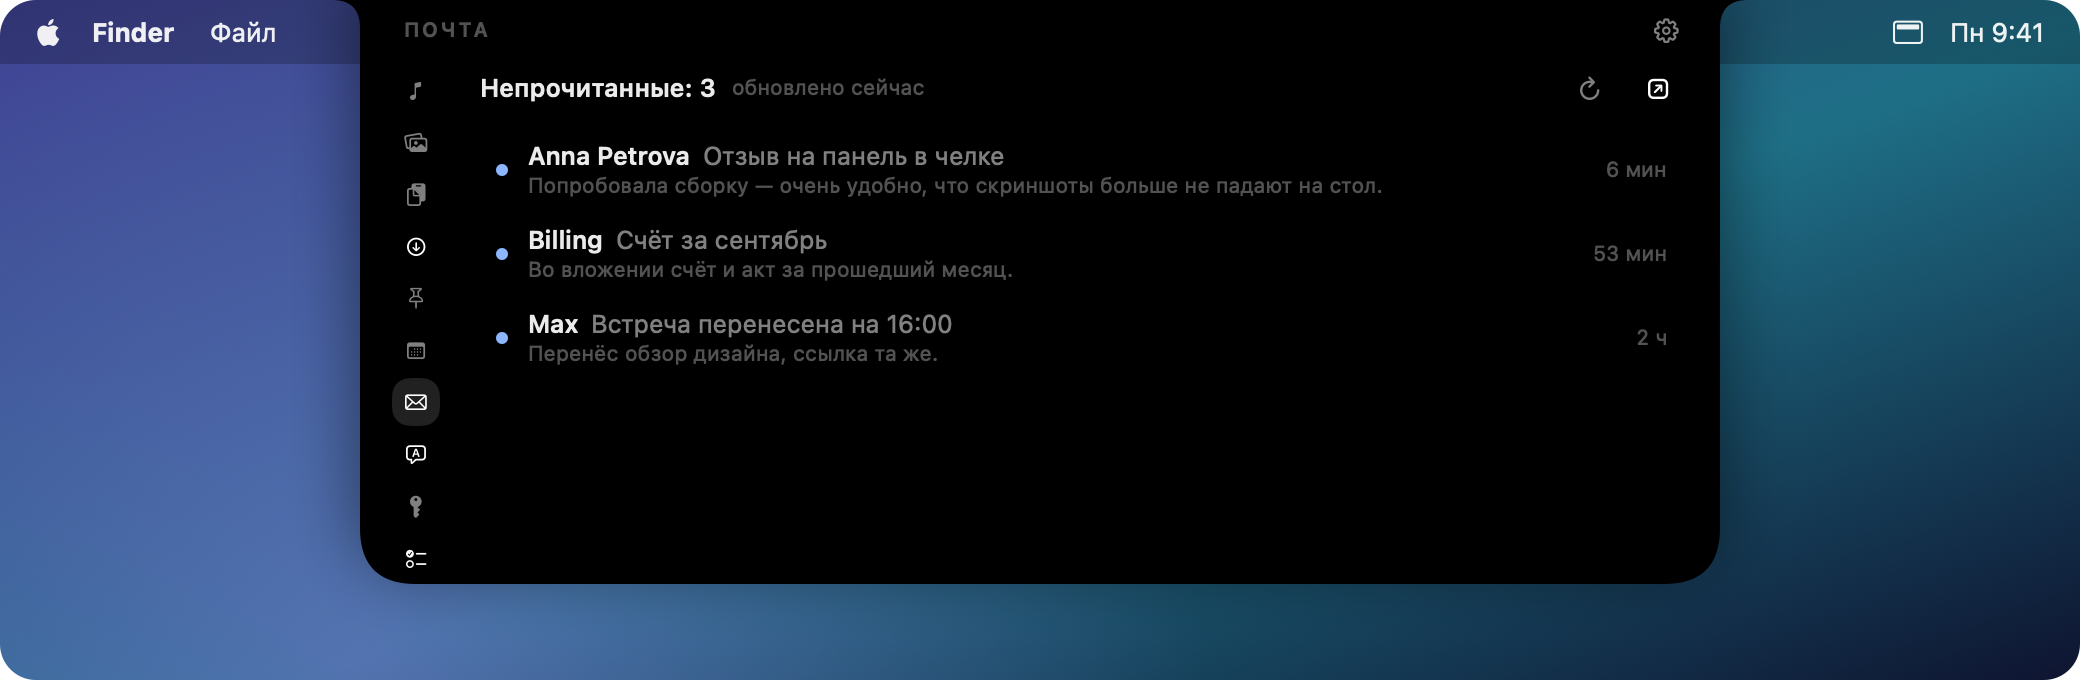
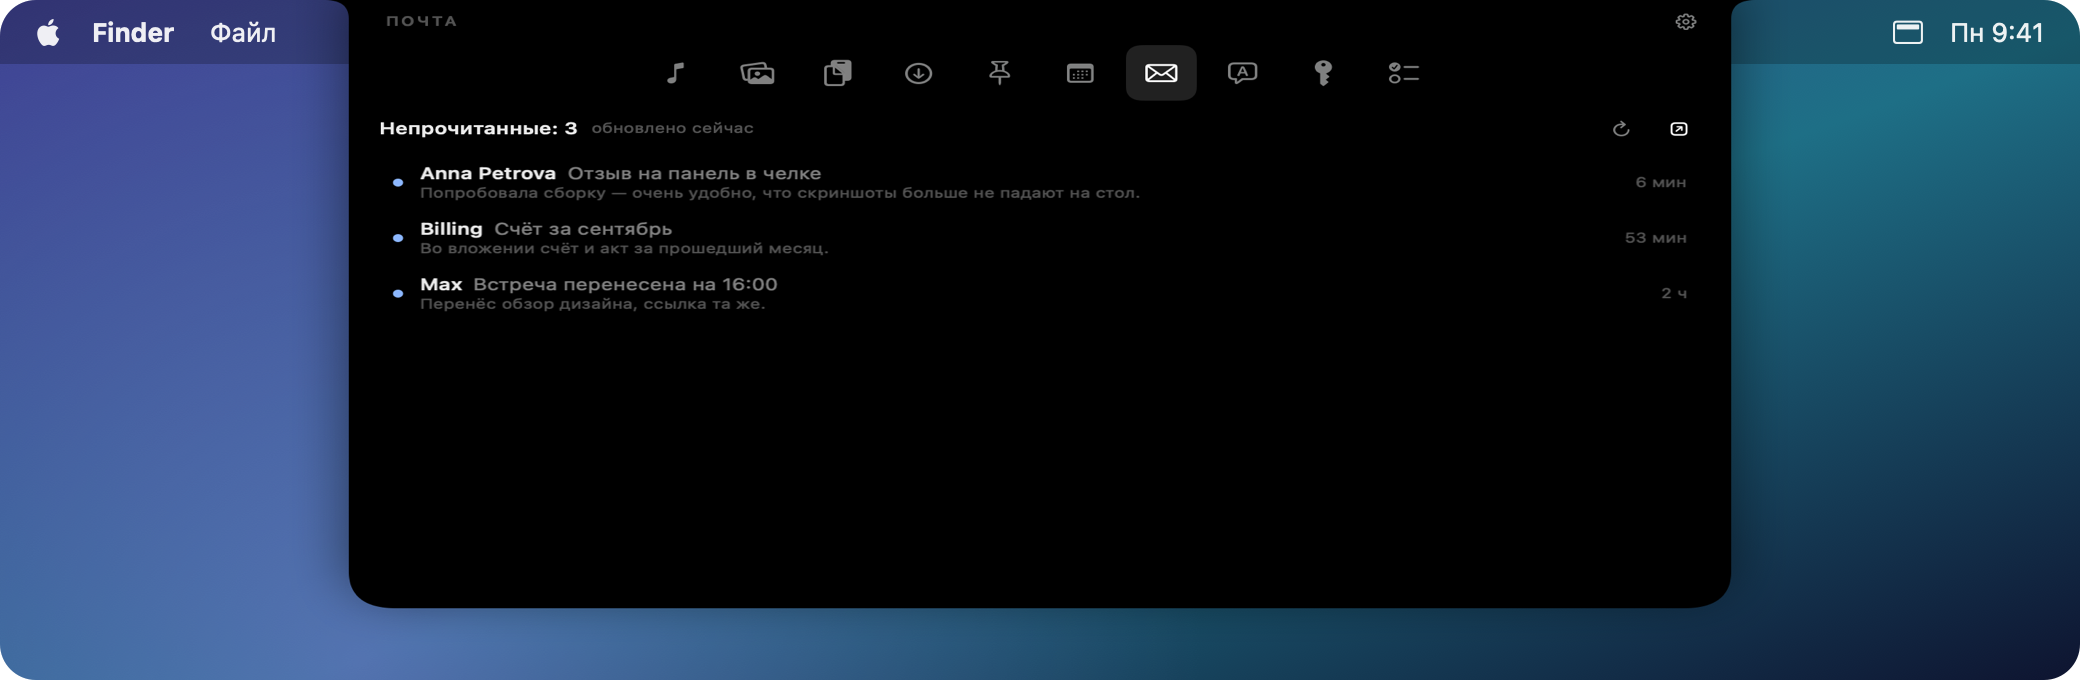
Обновление сайта: README, документация и каталог плагинов

Changed region(s): [[0.1562, 0.0, 0.8438, 0.8956], [0.2188, 0.0618, 0.6875, 0.1544]]

diff --git a/README.md b/README.md
@@ -6,7 +6,8 @@
 
 <p align="center">
   Your MacBook notch, turned into a quick-action panel.<br>
-  Music, screenshots, clipboard, downloads, Pin and a translator — one hover away.
+  Music, screenshots, clipboard, downloads, Pin and a translator — one hover away.<br>
+  Tabs, sizes, alerts and plugins — all of it yours to arrange.
 </p>
 
 <p align="center">
@@ -30,6 +31,16 @@
 - It stays pinned to the notch while you swipe between desktops and never pops up in Mission Control.
 - While music plays, the album art and a small equalizer sit right next to the closed notch.
 
+### The panel, your way
+
+![Tabs on top, the panel as tall as its content](docs/screenshots/en/panel-top.png)
+
+- **Tabs on the left or on top.** A row of tabs can sit on the left, centred or on the right.
+- **Three panel sizes** — small, medium and large; the size sets the width, the height and the icons at once.
+- **Icon size** has a slider of its own, for tabs larger or smaller than the size implies.
+- Tabs with nothing to scroll — the player, the shelf in a row — shrink the panel to their own height.
+  The rest keep the size you picked, so the window never moves out from under the pointer.
+
 ### Now Playing
 
 Control whatever is playing: Music, Spotify, a browser or any other player that reports to macOS.
@@ -42,6 +53,9 @@ Play, pause, skip and scrub through the track; click the app name to jump to the
 - Screenshots (<kbd>⌘⇧3</kbd>, <kbd>⌘⇧4</kbd>) and screen recordings (<kbd>⌘⇧5</kbd>) land in Shots instead of on your desktop.
 - Search by name, date or **the text inside a screenshot** — recognized on your Mac.
 - Drag a screenshot straight into any app; hover and click ✕ to move it to the Trash.
+- **A row or a grid** — your choice, and the grid takes from 2 to 6 columns.
+
+![Screenshots in a grid](docs/screenshots/en/shelf-grid.png)
 
 ### Clipboard history
 
@@ -57,7 +71,13 @@ Play, pause, skip and scrub through the track; click the app name to jump to the
 ![Pin and frequently copied items](docs/screenshots/en/snippets.png)
 
 Keep the texts you paste all the time — your email, phone number, links — one click away.
-What you copy most often appears here on its own, and you can pin it. Email, links, IP addresses, postal addresses, bank cards and crypto wallets are recognised on their own, and the list can be filtered by type.
+What you copy most often appears here on its own, and you can pin it.
+
+- **The type is worked out on its own**: email, link, IP address, postal address, bank card,
+  crypto wallet (BTC, ETH, TRON, LTC, SOL), phone number, handle. All of it locally, from the text itself.
+- The strip of types above the list narrows it down — to wallets only, say.
+- A card is recognised by its checksum, so a long order number never becomes one, and the number
+  is covered in the list: `4012 •••• •••• 1881`. Copying still gives you all of it.
 
 ### Recent downloads
 
@@ -133,7 +153,8 @@ default — the tab still keeps its dot, so nothing is lost.
 ![Translator](docs/screenshots/en/translate.png)
 
 The language is detected as you type. Translation runs entirely on your Mac through Apple Translation:
-no internet connection and no API keys.
+no internet connection and no API keys. If a language pack is missing, **Download languages** takes
+you to **Settings → Translate**, where it is downloaded and you can see how it went.
 
 ### Keyboard shortcuts
 
@@ -143,14 +164,66 @@ While the panel is open, <kbd>⌘1</kbd>…<kbd>⌘9</kbd> switch tabs — hold 
 The panel's shortcuts take priority over the app underneath, and when it's closed they work in your apps as usual.
 Any tab can get its own shortcut.
 
-### Make it yours
+## Nearly everything is a setting
 
-- Reorder tabs, hide the ones you don't need, and choose which panel elements to show.
+Every tab, every alert and every plugin permission is yours to decide.
+Four of the ten settings pages:
+
+### Panel
+
+![Panel settings](docs/screenshots/en/settings-panel.png)
+
+Tabs on the left or on top and where the row sits, three window sizes, a slider of its own for the icons.
+Below that, the tabs themselves: drag to reorder, switch off the ones you never open, and give any of
+them a shortcut of your own instead of <kbd>⌘1</kbd>…<kbd>⌘9</kbd>.
+
+### Notifications
+
+![Notification settings](docs/screenshots/en/settings-notifications.png)
+
+How long a banner stays, which sound it makes, how firmly the trackpad taps — and one switch for the
+days you want none of it. Focus is respected by default, and the page tells you whether it is on
+right now.
+
+### Clipboard
+
+![Clipboard settings](docs/screenshots/en/settings-clipboard.png)
+
+Automatic clearing — daily, weekly or monthly, on the day and hour you pick, with the next run spelled out.
+And a list of apps whose copies never reach the history: your bank, your password manager, a work chat.
+
+### Plugins
+
+![Plugin settings](docs/screenshots/en/settings-plugins.png)
+
+The catalogue, installing and removing, automatic updates — and each plugin's permissions, one by one.
+What a plugin asks for is visible before you install it, a permission can be taken back at any moment,
+and the plugin's log shows every call it makes to the system.
+
+### And also
+
 - Open the panel on hover or on click, with an optional delay.
 - Five interface languages, switched instantly.
-- Plugins are switched on and off one by one, together with their permissions.
-- Trackpad feedback, the alert sound and how long a banner stays are yours to set — or turn alerts off.
+- Which parts of the panel to show: the tab caption, the gear, the activity next to the closed notch.
 - Open at login and automatic updates.
+
+## How people use it
+
+- **A call in a minute.** The notch opens with a reminder and a **Join** button that starts Zoom
+  or Meet — no digging through email for the link.
+- **A screenshot into a chat.** <kbd>⌘⇧4</kbd>, and the capture is already in Shots, ready to be
+  dragged straight into the conversation. The desktop stays clean.
+- **Details at hand.** Email, phone, delivery address and card number live in Pin, labelled by type:
+  pick the type, click, and it is pasted.
+- **“Where did I see that link?”** Search the clipboard history and it turns up in a couple of
+  letters, even if you copied it the day before yesterday.
+- **Issues between other things.** The “Waiting for my review” filter in Jira, the description and
+  comments right in the panel, and the issue key copied with one click — for the branch name.
+- **A password without switching windows.** 1Password opens with Touch ID, and Autofill types the
+  login and the password into the active app.
+- **A letter in a language you do not read.** The translator works on the device: no internet, no keys.
+- **A file you just downloaded.** Downloads keeps it on top — open it, show it in Finder or drag it
+  onward without opening Finder at all.
 
 ## Plugins
 
@@ -217,4 +290,6 @@ Found a bug or have an idea? [Open an issue](https://github.com/kasaley/fastActi
 
 ## Coming next
 
-A plugin API and a plugin store, so anyone can add their own tabs to the notch.
+The plugin API and the catalogue are here already — [how to write one](docs/PLUGINS.md).
+Next: more ready-made integrations, settings that follow you between Macs, and notarization,
+so the first launch comes without a warning.
